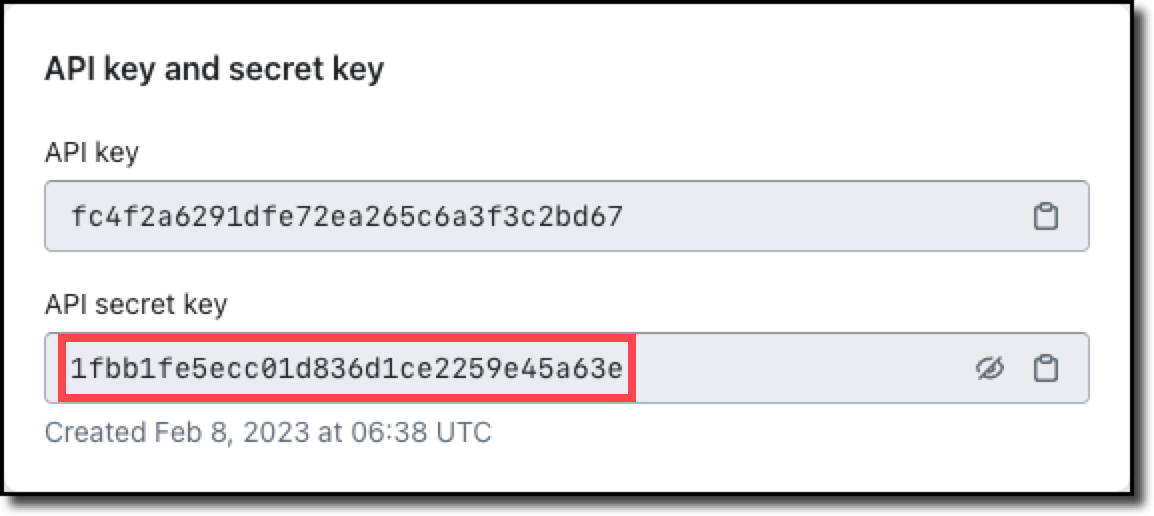
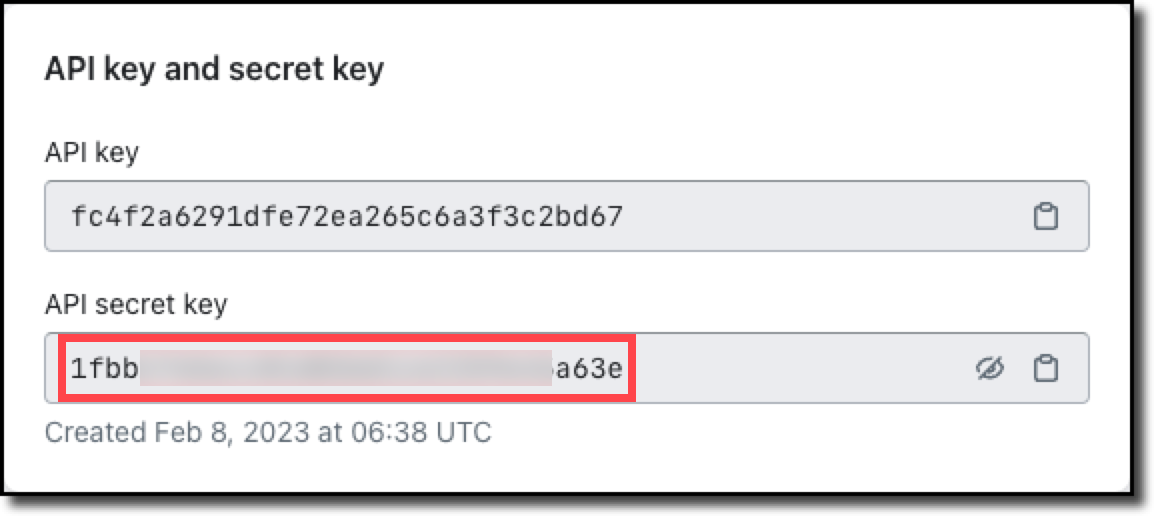
Remove example Shopify key
- Was just an example — no security breach
- Mask secret key in image

Changed region(s): [[0.1248, 0.6512, 0.4991, 0.7752]]

diff --git a/docs/installation.md b/docs/installation.md
@@ -137,7 +137,7 @@ You need to provide The Wishlist with your Shopify store domain, in the format `
 
 NOTE: This API token is only accessible **once**. It is strongly suggested that you copy and paste this somewhere safe, or at least take a screenshot. The Wishlist needs this token to be able to integrate to your Shopify store.
 
-Click the “Reveal once” button. and you'll see the token. It will be in the format `shpat_«value»`, where `«value»` is a series of 32 characters that is unique to your store. For example: `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`.
+Click the “Reveal once” button. and you'll see the token. It will be in the format `shpat_«value»`, where `«value»` is a series of 32 characters that is unique to your store.
 
 ![Shopify API access token](assets/shopify-api-access-token.png)
 
